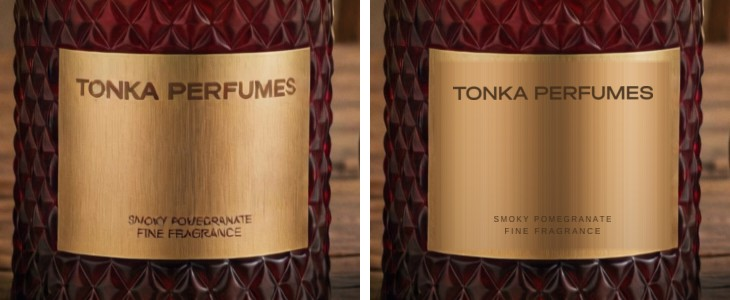
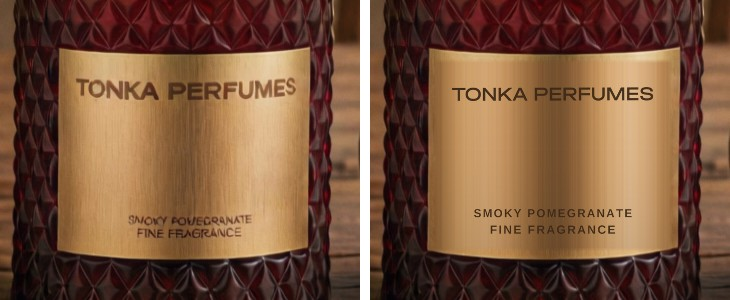
Этикетка s12: плавное субпиксельное наложение, читаемая нижняя строка
Claude-Session: https://claude.ai/code/session_01J4yjo46GFkLbNrZ3pmLzeQ

Changed region(s): [[0.6027, 0.27, 0.9041, 0.36], [0.6329, 0.69, 0.874, 0.78]]

diff --git a/video/tools/s12-logo-overlay.py b/video/tools/s12-logo-overlay.py
@@ -2,41 +2,54 @@ import numpy as np, json
 from PIL import Image, ImageDraw, ImageFont, ImageFilter
 tr=np.array(json.load(open('track.json')),float); n=len(tr); t=np.arange(n)
 fit=np.stack([np.polyval(np.polyfit(t,tr[:,k],2),t) for k in range(4)],1)
-logo=Image.open('logo.png'); lb=logo.getbbox(); logo=logo.crop(lb)
-INK=(62,42,24)
-font=ImageFont.truetype('/usr/share/fonts/truetype/liberation/LiberationSans-Regular.ttf',64)
+INS=5
+def rect(i):
+    L,T,R,B=fit[i]; return L+INS,T+INS,R-INS,B-INS
+# --- reference clean texture from frame 1 (fixed, so it never flickers)
+a0=np.array(Image.open('fr/0001.png').convert('RGB')).astype(float)
+L,T,R,B=[int(round(v)) for v in rect(0)]
+reg=a0[T:B,L:R]; colm=np.median(reg,0)
+lum=reg.mean(2)/np.maximum(colm.mean(1),1)[None,:]
+rowr=np.median(lum,1); yy=np.arange(len(rowr)); rowf=np.polyval(np.polyfit(yy,rowr,2),yy)
+tex=colm[None,:,:]*rowf[:,None,None]; TH,TW=tex.shape[:2]
+texI=Image.fromarray(np.clip(tex,0,255).astype('uint8'))
+# feathered mask in texture space
+my=np.minimum(np.minimum(yy,TH-1-yy)/4,1); mx=np.arange(TW); mx=np.minimum(np.minimum(mx,TW-1-mx)/4,1)
+maskI=Image.fromarray((my[:,None]*mx[None,:]*255).astype('uint8'))
+# per-frame brightness (smooth) so lighting change during pull-back is kept
+br=[]
+for i in range(n):
+    a=np.array(Image.open(f'fr/{i+1:04d}.png').convert('RGB')).astype(float)
+    l,tp,r,b=[int(round(v)) for v in rect(i)]
+    br.append(np.median(a[tp:b,l:r]))
+br=np.array(br); br=np.polyval(np.polyfit(t,br,2),t); br=br/br[0]
+# overlay elements: pre-render alpha at ~label size in texture space (TW x TH canvas)
+logo=Image.open('logo.png'); logo=logo.crop(logo.getbbox()).split()[-1]
+font=ImageFont.truetype('/usr/share/fonts/truetype/liberation/LiberationSans-Bold.ttf',64)
 def textimg(s):
-    # spaced caps rendered big, scaled later
-    w=sum(font.getlength(c)+14 for c in s); im=Image.new('L',(int(w)+10,80),0); d=ImageDraw.Draw(im); x=5
-    for c in s: d.text((x,5),c,fill=255,font=font); x+=font.getlength(c)+14
+    w=sum(font.getlength(c)+8 for c in s); im=Image.new('L',(int(w)+10,80),0); d=ImageDraw.Draw(im); x=5
+    for c in s: d.text((x,5),c,fill=255,font=font); x+=font.getlength(c)+8
     return im.crop(im.getbbox())
-t1=textimg('SMOKY POMEGRANATE'); t2=textimg('FINE FRAGRANCE')
+S=4; ov=Image.new('L',(TW*S,TH*S),0)
+def put(al,wfrac,cyfrac):
+    w=TW*S*wfrac; h=al.size[1]*w/al.size[0]; al=al.resize((int(w),int(h)),Image.LANCZOS)
+    ov.paste(al,(int(TW*S/2-w/2),int(TH*S*cyfrac-h/2)),al)
+# fractions relative to label rect incl. inset (approx same as before)
+put(logo,0.84,0.185); put(textimg('SMOKY POMEGRANATE'),0.66,0.80); put(textimg('FINE FRAGRANCE'),0.52,0.885)
+ovI=ov.resize((TW*2,TH*2),Image.LANCZOS)  # 2x texture res for smooth warping
+ovI=ovI.filter(ImageFilter.GaussianBlur(0.35)).point(lambda v:int(v*0.95))
+INK=np.array([62,42,24],float)
 for i in range(n):
     im=Image.open(f'fr/{i+1:04d}.png').convert('RGB'); a=np.array(im).astype(float)
-    L,T,R,B=fit[i]; L=int(round(L))+5; R=int(round(R))-5; T=int(round(T))+5; B=int(round(B))-5
-    reg=a[T:B,L:R]
-    colm=np.median(reg,0)                      # (w,3) brushed streaks
-    lum=reg.mean(2)/np.maximum(colm.mean(1),1)[None,:]
-    rowr=np.median(lum,1); yy=np.arange(len(rowr))
-    rowf=np.polyval(np.polyfit(yy,rowr,2),yy)
-    clean=colm[None,:,:]*rowf[:,None,None]
-    h,w=clean.shape[:2]
-    # feather edges into original
-    fy=np.minimum(np.minimum(yy,h-1-yy)/4,1); xx=np.arange(w); fx=np.minimum(np.minimum(xx,w-1-xx)/4,1)
-    f=(fy[:,None]*fx[None,:])[...,None]
-    a[T:B,L:R]=reg*(1-f)+clean*f
-    out=Image.fromarray(np.clip(a,0,255).astype('uint8'))
-    # overlay vector logo + label text (montage, not generated)
-    W=(fit[i,2]-fit[i,0]); H=(fit[i,3]-fit[i,1]); cx=(fit[i,0]+fit[i,2])/2; y0=fit[i,1]
-    S=4
-    def paste(alpha, width, cy):
-        hh=alpha.size[1]*width/alpha.size[0]
-        al=alpha.resize((int(width*S),max(1,int(hh*S))),Image.LANCZOS).resize((int(round(width)),max(1,int(round(hh)))),Image.LANCZOS)
-        al=al.filter(ImageFilter.GaussianBlur(0.4)).point(lambda v:int(v*0.9))
-        col=Image.new('RGB',al.size,INK)
-        out.paste(col,(int(round(cx-al.size[0]/2)),int(round(cy-al.size[1]/2))),al)
-    paste(logo.split()[-1], W*0.80, y0+H*0.195)
-    paste(t1, W*0.47, y0+H*0.815)
-    paste(t2, W*0.38, y0+H*0.875)
-    out.save(f'out/{i+1:04d}.png')
-print('done')
+    l,tp,r,b=rect(i); sx=(r-l)/TW; sy=(b-tp)/TH
+    # affine: output(x,y) -> texture(u,v) with float precision
+    A=(1/sx,0,-l/sx,0,1/sy,-tp/sy)
+    tw=np.array(texI.transform(im.size,Image.AFFINE,A,resample=Image.BICUBIC)).astype(float)*br[i]
+    mw=np.array(maskI.transform(im.size,Image.AFFINE,A,resample=Image.BILINEAR)).astype(float)[...,None]/255
+    A2=(2/sx,0,-2*l/sx,0,2/sy,-2*tp/sy)
+    # downscale from 2x via transform then light blur keeps it smooth
+    ow=np.array(ovI.transform(im.size,Image.AFFINE,(A2[0]*1,0,A2[2],0,A2[4],A2[5]),resample=Image.BICUBIC)).astype(float)[...,None]/255
+    a=a*(1-mw)+tw*mw
+    a=a*(1-ow)+INK*ow
+    Image.fromarray(np.clip(a,0,255).astype('uint8')).save(f'out/{i+1:04d}.png')
+print('ok')
